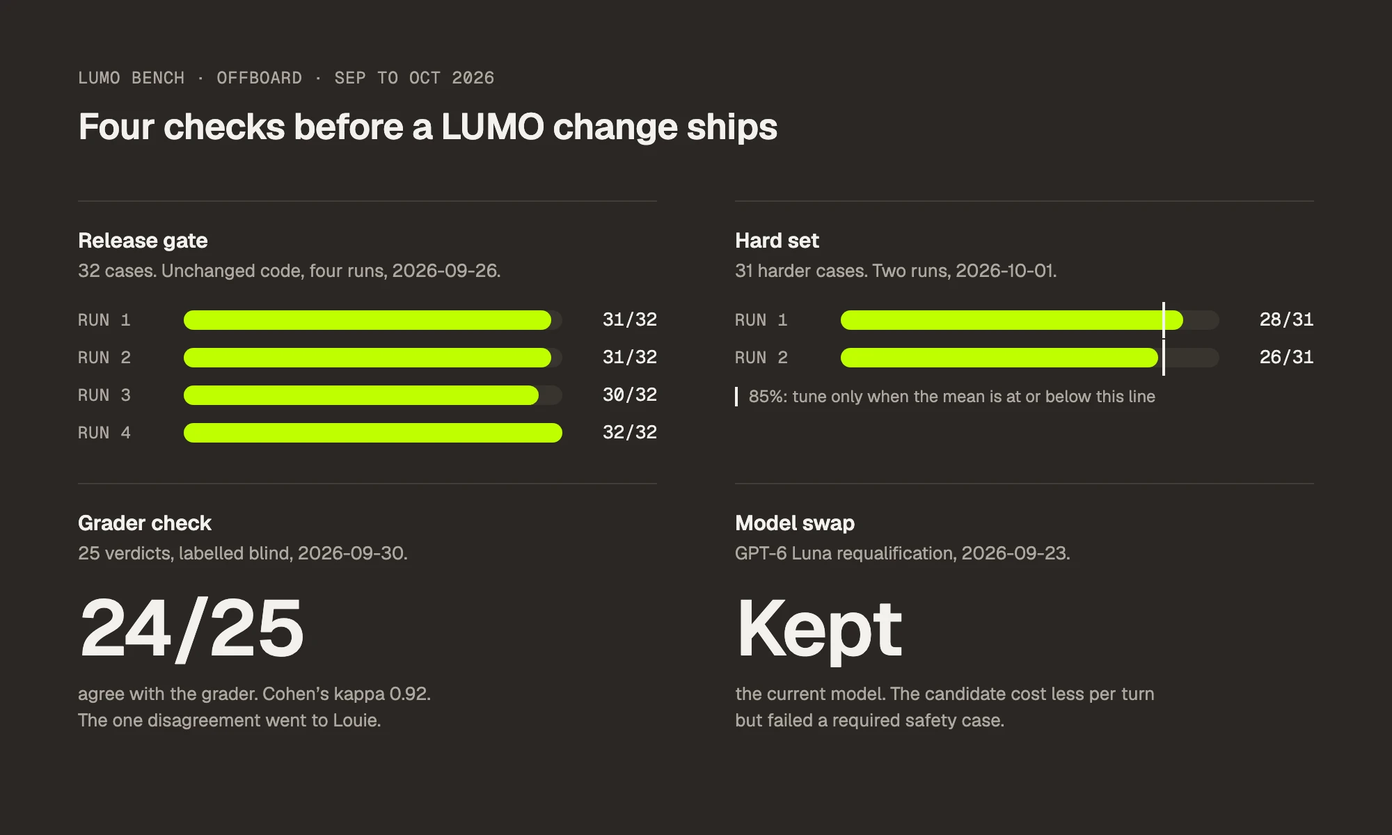
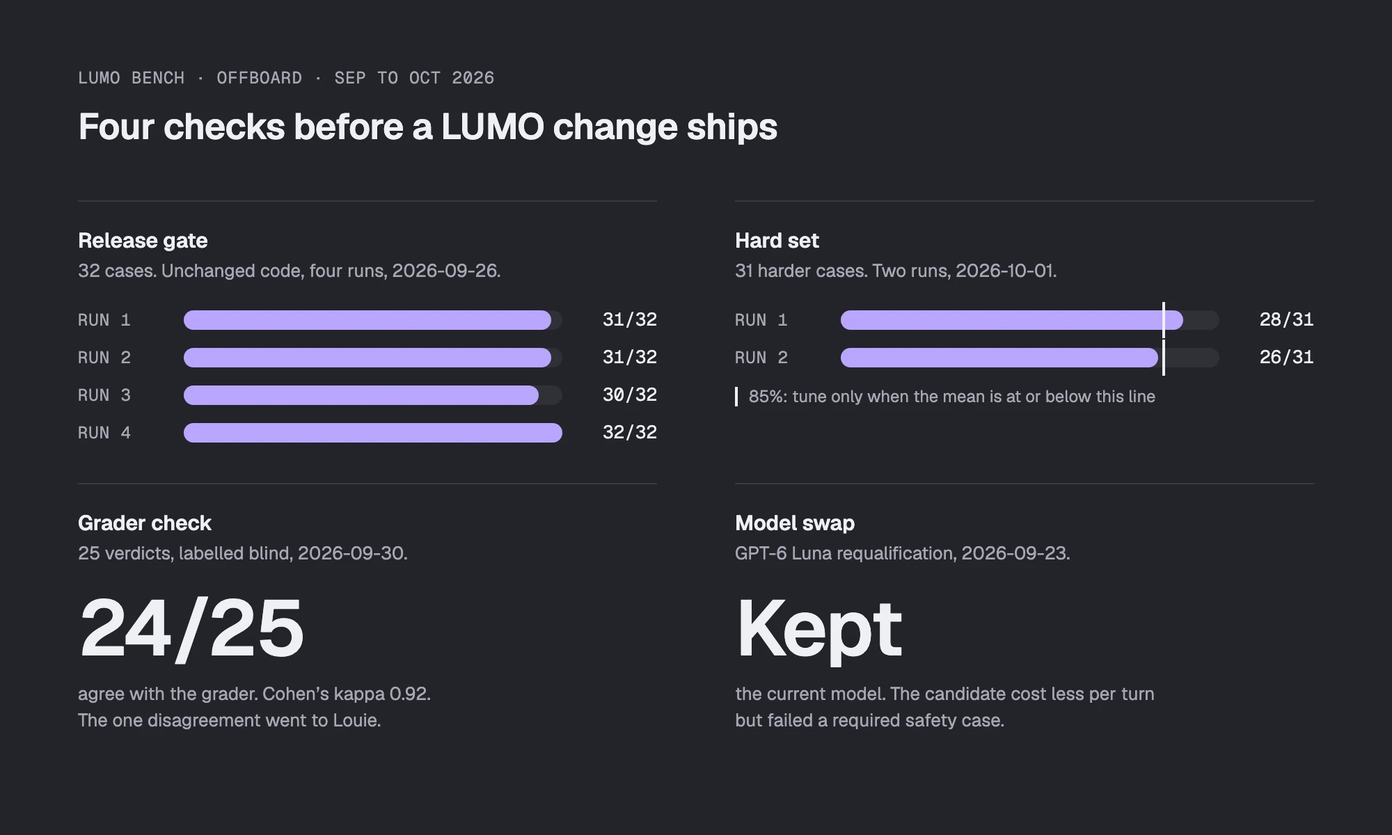
Switch the accent to an indigo and lilac duo on cool greys (#7)
Louie chose the "duo" after comparing accents on the real pages.

- Primary buttons are indigo #5550F2 with light text (5.1:1).
- A new lilac token, accent-line (#BBA8FF), draws the headline underline,
  link and hover underlines, focus rings, text selection, and the chart
  marks in the LUMO graphics.
- Canvas, surfaces, borders, and ink move from warm to cool greys.
- The bench chart, case P1, and the LUMO card image are re-rendered in
  lilac on cool greys. Offboard screenshots keep the app's own lime.
- The social share image, AGENTS.md, and the README follow.

Changed region(s): [[0.124, 0.37, 0.403, 0.555], [0.589, 0.37, 0.868, 0.4625]]

diff --git a/components/portfolio/lumo/bench-graphics.tsx b/components/portfolio/lumo/bench-graphics.tsx
@@ -35,7 +35,7 @@ function Dot({ miss, title, delay, played, reduce }: { miss: boolean; title: str
       initial={reduce ? false : { scale: 0, opacity: 0 }}
       animate={played ? { scale: 1, opacity: 1 } : undefined}
       transition={reduce ? { duration: 0 } : { delay, duration: 0.3, ease }}
-      className={cn("block aspect-square w-full max-w-3 rounded-full", miss ? "border-2 border-danger" : "bg-plate-offboard-mark")}
+      className={cn("block aspect-square w-full max-w-3 rounded-full", miss ? "border-2 border-danger" : "bg-accent-line")}
     />
   );
 }
@@ -43,7 +43,7 @@ function Dot({ miss, title, delay, played, reduce }: { miss: boolean; title: str
 function Legend() {
   return (
     <p aria-hidden="true" className="flex flex-wrap gap-x-5 gap-y-2 font-mono text-system uppercase text-foreground-muted">
-      <span className="flex items-center gap-1.5"><span className="size-2.5 rounded-full bg-plate-offboard-mark" />Pass</span>
+      <span className="flex items-center gap-1.5"><span className="size-2.5 rounded-full bg-accent-line" />Pass</span>
       <span className="flex items-center gap-1.5"><span className="size-2.5 rounded-full border-2 border-danger" />Miss</span>
     </p>
   );
@@ -113,10 +113,10 @@ export function ModelScorecard() {
                     animate={played ? { scaleX: 1 } : undefined}
                     transition={reduce ? { duration: 0 } : { delay: 0.2 + i * 0.15, duration: 0.6, ease }}
                     style={{ width: `${(Math.abs(m.value) / max) * 50}%`, transformOrigin: better ? "right" : "left" }}
-                    className={cn("absolute inset-y-0 rounded-full", better ? "right-1/2 bg-plate-offboard-mark" : "left-1/2 bg-danger")}
+                    className={cn("absolute inset-y-0 rounded-full", better ? "right-1/2 bg-accent-line" : "left-1/2 bg-danger")}
                   />
                 </span>
-                <span className={cn("row-start-1 text-right font-mono text-body-sm tabular-nums sm:col-start-3", better ? "text-plate-offboard-mark" : "text-danger")}>
+                <span className={cn("row-start-1 text-right font-mono text-body-sm tabular-nums sm:col-start-3", better ? "text-accent-line" : "text-danger")}>
                   {m.value > 0 ? "+" : "−"}{Math.abs(m.value)}%
                 </span>
               </li>
@@ -125,7 +125,7 @@ export function ModelScorecard() {
         </ul>
         <motion.div {...enter(3)} className="grid gap-2 rounded-sm border border-border-subtle bg-surface p-4 sm:grid-cols-[1fr_auto_auto] sm:items-center sm:gap-6">
           <span className="text-body-sm text-foreground">Required safety case: no interview lookup after a crisis statement</span>
-          <span className="flex items-center gap-1.5 font-mono text-system uppercase text-foreground"><Check aria-hidden="true" className="size-3.5 text-plate-offboard-mark" />Current model passes</span>
+          <span className="flex items-center gap-1.5 font-mono text-system uppercase text-foreground"><Check aria-hidden="true" className="size-3.5 text-accent-line" />Current model passes</span>
           <span className="flex items-center gap-1.5 font-mono text-system uppercase text-danger"><X aria-hidden="true" className="size-3.5" />GPT-6 Luna fails</span>
         </motion.div>
         <motion.p {...enter(4)} className="w-fit rounded-full bg-foreground px-3.5 py-1.5 font-mono text-system uppercase text-canvas">Verdict: keep the current model</motion.p>
@@ -147,7 +147,7 @@ export function ModelScorecard() {
                     animate={played ? { opacity: 1, scaleX: 1 } : undefined}
                     transition={reduce ? { duration: 0 } : { delay: 0.3 + i * 0.15, duration: 0.6, ease }}
                     style={{ left: `${lo * 100}%`, width: `max(0.75rem, ${(hi - lo) * 100}%)`, transformOrigin: "left" }}
-                    className={cn("absolute inset-y-0 rounded-full", i === 0 ? "bg-plate-offboard-mark" : "bg-foreground/60")}
+                    className={cn("absolute inset-y-0 rounded-full", i === 0 ? "bg-accent-line" : "bg-foreground/60")}
                   />
                 </span>
                 <span className="row-start-1 whitespace-nowrap text-right font-mono text-body-sm tabular-nums text-foreground-muted sm:col-start-3">
@@ -216,13 +216,13 @@ export function HardSetRuns() {
             animate={played ? { width: pct(mean) } : undefined}
             transition={reduce ? { duration: 0 } : { delay: 0.9, duration: 0.9, ease }}
             style={reduce ? { width: pct(mean) } : undefined}
-            className="absolute inset-y-0 left-0 rounded-full bg-plate-offboard-mark"
+            className="absolute inset-y-0 left-0 rounded-full bg-accent-line"
           />
           <span className="absolute -inset-y-1.5 w-0.5 bg-foreground" style={{ left: pct(HARD_TUNING_LINE) }} />
         </span>
         <span className="flex flex-wrap justify-end gap-x-4 gap-y-1 font-mono text-system uppercase text-foreground-muted">
           <span className="flex items-center gap-1.5"><span className="h-3 w-0.5 bg-foreground" />Tune at or below 85%</span>
-          <span className="text-plate-offboard-mark">Mean {Math.round(mean * 100)}%</span>
+          <span className="text-accent-line">Mean {Math.round(mean * 100)}%</span>
         </span>
       </div>
       <Legend />
@@ -252,7 +252,7 @@ export function GraderAgreement() {
                 transition={reduce ? { duration: 0 } : { delay: i * 0.04, duration: 0.35, ease }}
                 className={cn(
                   "flex size-10 items-center justify-center rounded-xs",
-                  odd ? "border-2 border-foreground text-foreground" : hard ? "bg-plate-offboard-mark/80 text-canvas" : "bg-plate-offboard-mark/45 text-canvas",
+                  odd ? "border-2 border-foreground text-foreground" : hard ? "bg-accent-line/80 text-canvas" : "bg-accent-line/45 text-canvas",
                 )}
               >
                 {odd ? <span className="font-mono text-system">H04</span> : <Check className="size-3.5" />}
@@ -261,8 +261,8 @@ export function GraderAgreement() {
           })}
         </ol>
         <p aria-hidden="true" className="flex flex-wrap gap-x-4 gap-y-1 font-mono text-system uppercase text-foreground-muted">
-          <span className="flex items-center gap-1.5"><span className="size-2.5 rounded-xs bg-plate-offboard-mark/80" />Hard set · {GRADER_CHECK.fromHard}</span>
-          <span className="flex items-center gap-1.5"><span className="size-2.5 rounded-xs bg-plate-offboard-mark/45" />Regression · {GRADER_CHECK.fromRegression}</span>
+          <span className="flex items-center gap-1.5"><span className="size-2.5 rounded-xs bg-accent-line/80" />Hard set · {GRADER_CHECK.fromHard}</span>
+          <span className="flex items-center gap-1.5"><span className="size-2.5 rounded-xs bg-accent-line/45" />Regression · {GRADER_CHECK.fromRegression}</span>
         </p>
       </div>
 

diff --git a/app/globals.css b/app/globals.css
@@ -11,16 +11,19 @@
 /* ---------------------------------------------------------------------------
    Design tokens — source of truth.
 
-   Plan 051 (October 2026): a near-black warm canvas, warm off-white ink, and
-   one accent, lime #C6FF00, which always carries dark text. Color still
-   belongs to the work: project plates stay for the case study pages, and the
-   amber signal keeps its one job, the redline on real screenshots.
+   Plan 051 (October 2026), palette revised October 17, 2026 (Louie chose
+   the "indigo + lilac duo"): a cool near-black canvas, cool off-white ink,
+   and two related accents. Color still belongs to the work: project plates
+   stay for the case study pages, and the amber signal keeps its one job,
+   the redline on real screenshots.
 
-   Accent split (unchanged contract): `text-accent` for text and markers
-   resolves to ink, so links keep their underline; `bg-accent-fill` +
-   `text-accent-on-fill` is lime with dark text, for primary actions only.
-   `accent-muted` / `accent-soft` are lime tints for the deep-link wash and
-   AI surfaces.
+   Accent split: `text-accent` for text and markers resolves to ink, so
+   links keep their underline. `bg-accent-fill` + `text-accent-on-fill` is
+   indigo #5550F2 with light text, for primary actions only. `accent-line`
+   is lilac #BBA8FF for lines and highlights: the headline underline, link
+   and hover underlines, focus rings, text selection, and chart marks.
+   `accent-muted` / `accent-soft` / `accent-foreground` are lilac tints for
+   the deep-link wash and AI surfaces.
 
    Colors are HSL triplets consumed as hsl(var(--token)). Radii are spec §9.
    Motion durations are spec §24.
@@ -28,29 +31,30 @@
 :root {
   color-scheme: dark;
 
-  /* Near-black warm canvas, #121211. Frames and panels step up in lightness;
-     borders stay low so spacing, not lines, does the grouping. */
-  --canvas: 60 3% 7%;
-  --surface: 60 4% 9%;
-  --surface-muted: 50 5% 11%;
-  --surface-raised: 45 6% 13%;
-  --foreground: 48 26% 93%;         /* #F1EFE7, 16.5:1 on canvas */
-  --foreground-muted: 45 5% 61%;    /* #A3A097, 7.4:1 on canvas — body copy */
-  --foreground-subtle: 45 4% 40%;   /* non-text only */
-  --foreground-quiet: 45 4% 52%;    /* 4.9:1 — display-size text only */
+  /* Near-black cool canvas, #101113. Frames and panels step up in
+     lightness; borders stay low so spacing, not lines, does the grouping. */
+  --canvas: 235 8% 7%;
+  --surface: 235 8% 9%;
+  --surface-muted: 235 7% 11%;
+  --surface-raised: 235 7% 13%;
+  --foreground: 230 25% 95%;        /* #EFF0F5, 16.6:1 on canvas */
+  --foreground-muted: 235 7% 63%;   /* #9A9BA7, 6.9:1 on canvas — body copy */
+  --foreground-subtle: 235 5% 40%;  /* non-text only */
+  --foreground-quiet: 235 5% 52%;   /* 4.8:1 — display-size text only */
 
-  --border-subtle: 45 5% 16%;
-  --border-default: 50 5% 21%;
-  --border-strong: 48 5% 32%;
+  --border-subtle: 235 7% 16%;
+  --border-default: 235 7% 21%;
+  --border-strong: 235 6% 32%;
 
-  --accent: 48 26% 93%;
-  --accent-hover: 45 5% 75%;
-  --accent-fill: 74 100% 50%;       /* lime #C6FF00 */
-  --accent-fill-hover: 74 100% 62%;
-  --accent-on-fill: 60 3% 7%;       /* 16:1 on lime */
-  --accent-muted: 74 45% 22%;
-  --accent-soft: 74 30% 11%;
-  --accent-foreground: 74 100% 62%; /* 12:1 on accent-soft */
+  --accent: 230 25% 95%;
+  --accent-hover: 235 7% 75%;
+  --accent-fill: 242 86% 63%;       /* indigo #5550F2 */
+  --accent-fill-hover: 242 80% 58%; /* darker on hover, so text stays readable */
+  --accent-on-fill: 230 25% 97%;    /* 5.1:1 on indigo, 6.2:1 on hover */
+  --accent-line: 253 100% 83%;      /* lilac #BBA8FF, 9.1:1 on canvas */
+  --accent-muted: 253 45% 22%;
+  --accent-soft: 253 30% 11%;
+  --accent-foreground: 253 100% 88%; /* 11:1 on accent-soft */
 
   /* The redline. Used only by DecisionMark and the marks it draws. */
   --signal: 41 91% 57%;
@@ -168,6 +172,7 @@
   --color-accent-hover: hsl(var(--accent-hover));
   --color-accent-fill: hsl(var(--accent-fill));
   --color-accent-fill-hover: hsl(var(--accent-fill-hover));
+  --color-accent-line: hsl(var(--accent-line));
   --color-accent-on-fill: hsl(var(--accent-on-fill));
   --color-accent-muted: hsl(var(--accent-muted));
   --color-accent-soft: hsl(var(--accent-soft));
@@ -303,11 +308,16 @@
   --radius-field: var(--radius-field);
 }
 
+/* Selected text takes a lilac tint (October 2026 palette). */
+::selection {
+  background-color: hsl(var(--accent-line) / 0.32);
+}
+
 /* One focus treatment for the whole site, so every interactive element is
    visibly focusable without each component reinventing it (spec §26). */
 @utility focus-ring {
   &:focus-visible {
-    outline: 2px solid hsl(var(--accent-fill));
+    outline: 2px solid hsl(var(--accent-line));
     outline-offset: 2px;
   }
 }
@@ -581,7 +591,7 @@
 
 /* ---------------------------------------------------------------------------
    Homepage headline (Plan 051): "I make complex things / feel simple." with
-   small project screenshots set inside the line, and a lime line drawn
+   small project screenshots set inside the line, and a lilac line drawn
    behind "feel simple."
 
    - Words rise in, a few at a time. The whole entrance is pure CSS and
@@ -694,7 +704,7 @@
   bottom: -0.01em;
   height: 0.13em;
   border-radius: 0.04em;
-  background: hsl(var(--accent-fill));
+  background: hsl(var(--accent-line));
   transform: scaleX(0);
   transform-origin: left center;
   animation: neon-draw 800ms cubic-bezier(0.65, 0, 0.25, 1) 900ms forwards;

diff --git a/content/work/projects.ts b/content/work/projects.ts
@@ -83,7 +83,7 @@ export const workProjects: readonly WorkProject[] = [
     imageAlt: "A recording of one LUMO turn in Offboard's chat page. The member asks: Can they take my severance back? If so, draft an email asking them to narrow that. A Lumo is working panel ticks through its steps: classifying the question, reviewing the profile, loading the document analysis, drafting the ask email. The reply streams in with a Used profile and documents badge. It quotes the agreement word for word: If Employee breaches Sections 7, 8, or 9, Employee must repay the full severance amount. Then it drafts an email asking the company to narrow or remove that clause, and ends: Nothing was sent. You can edit the draft before sending.",
     imageCaption: "One LUMO turn, recorded live. LUMO reads the member’s reviewed agreement, quotes the clause word for word, and drafts an email asking to narrow it. Nothing is sent. A synthetic test agreement, October 2026. Product recording.",
     imageWidth: 1536, imageHeight: 864,
-    tileImage: { src: "/work/lumo/card.webp", alt: "Three pieces of one LUMO turn, cut from a real screenshot. Top: the member asks, Can they take my severance back? If so, draft an email asking them to narrow that. Left: the How Lumo worked steps. Right: LUMO's reply, marked Used profile and documents. A lime line links the step Loading document analysis to the reply's quote of the agreement: If Employee breaches Sections 7, 8, or 9, Employee must repay the full severance amount. A second line links Drafting your ask email to the drafted email's subject line.", width: 2400, height: 1800 },
+    tileImage: { src: "/work/lumo/card.webp", alt: "Three pieces of one LUMO turn, cut from a real screenshot. Top: the member asks, Can they take my severance back? If so, draft an email asking them to narrow that. Left: the How Lumo worked steps. Right: LUMO's reply, marked Used profile and documents. A lilac line links the step Loading document analysis to the reply's quote of the agreement: If Employee breaches Sections 7, 8, or 9, Employee must repay the full severance amount. A second line links Drafting your ask email to the drafted email's subject line.", width: 2400, height: 1800 },
     role: "Founding Product Designer & AI Systems Lead",
     scope: "Product direction, conversation and tool design, evaluation, and full-stack implementation",
     status: "Live in Offboard",

diff --git a/components/portfolio/lumo/tool-gate.tsx b/components/portfolio/lumo/tool-gate.tsx
@@ -65,7 +65,7 @@ function Tool({ name, state }: { name: string; state: "offered" | "called" | "bl
     <li
       className={cn(
         "rounded-xs border px-2 py-1 font-mono text-system transition-[opacity,background-color,border-color] duration-(--duration-standard)",
-        state === "called" && "border-plate-offboard-mark bg-plate-offboard-mark text-canvas",
+        state === "called" && "border-accent-line bg-accent-line text-canvas",
         state === "offered" && "border-border-default text-foreground",
         state === "blocked" && "border-border-subtle text-foreground-subtle line-through opacity-50",
       )}
@@ -127,7 +127,7 @@ export function ToolGate() {
                 <div className="rounded-sm border border-border-default bg-surface-muted p-4">
                   {confirmed ? (
                     <p className="flex items-center gap-2 text-body-sm font-semibold text-foreground">
-                      <Check aria-hidden="true" className="size-4 text-plate-offboard-mark" />
+                      <Check aria-hidden="true" className="size-4 text-accent-line" />
                       Added. The tracker changed only now.
                     </p>
                   ) : (
@@ -135,7 +135,7 @@ export function ToolGate() {
                       <p className="text-body-sm font-semibold text-foreground">Add to tracker?</p>
                       <p className="mt-1 text-body-sm text-foreground-muted">The role from the link, as a pending card.</p>
                       <span className="mt-3 flex gap-2">
-                        <button type="button" onClick={() => setConfirmed(true)} className="focus-ring rounded-full bg-plate-offboard-mark px-3.5 py-1.5 text-body-sm font-semibold text-canvas">Confirm</button>
+                        <button type="button" onClick={() => setConfirmed(true)} className="focus-ring rounded-full bg-accent-line px-3.5 py-1.5 text-body-sm font-semibold text-canvas">Confirm</button>
                         <span aria-hidden="true" className="rounded-full border border-border-default px-3.5 py-1.5 text-body-sm text-foreground-muted">Not now</span>
                       </span>
                     </>

diff --git a/components/app-shell/site-header.tsx b/components/app-shell/site-header.tsx
@@ -15,9 +15,8 @@ import { profile } from "@/content/profile";
  * "Primary"; only one is ever displayed, so assistive tech sees one.
  *
  * Plan 051: the name alone (the hero says the role) as a two-voice
- * wordmark, mono pill navigation, and "Let's talk" as the one lime control:
- * it is the action we want recruiters to take. Ask Louie sits beside it,
- * outlined.
+ * wordmark, mono pill navigation, then "Let's talk" (contact) and Ask
+ * Louie, both outlined.
  *
  * Its inner frame matches `.portfolio-wide`, so the name lines up with the
  * homepage content edge. The availability link was removed on 2026-09-29
@@ -31,7 +30,7 @@ function SiteHeader() {
       <div className="portfolio-wide flex h-16 items-center gap-6">
         <Link href="/" className="group focus-ring mr-auto flex items-center gap-3 rounded-xs" aria-label={`${profile.name}, home`}>
           {profile.avatar ? (
-            <Image src={profile.avatar} alt="" width={36} height={36} loading="eager" className="size-9 rounded-full object-cover ring-1 ring-foreground/10 transition-[rotate,box-shadow] duration-(--duration-deliberate) group-hover:-rotate-8 group-hover:ring-2 group-hover:ring-accent-fill motion-reduce:transition-none" />
+            <Image src={profile.avatar} alt="" width={36} height={36} loading="eager" className="size-9 rounded-full object-cover ring-1 ring-foreground/10 transition-[rotate,box-shadow] duration-(--duration-deliberate) group-hover:-rotate-8 group-hover:ring-2 group-hover:ring-accent-line motion-reduce:transition-none" />
           ) : null}
           {/* Plan 051 wordmark: Geist for the first name, Instrument Serif
               italic for the surname, the site's two voices in one name. */}

diff --git a/components/portfolio/lumo/money-switch.tsx b/components/portfolio/lumo/money-switch.tsx
@@ -33,7 +33,7 @@ export function MoneySwitch() {
         onClick={() => setOn((value) => !value)}
         className="focus-ring flex w-fit items-center gap-3 rounded-full border border-border-default py-1.5 pl-1.5 pr-4 text-body-sm text-foreground"
       >
-        <span className={cn("flex h-6 w-11 items-center rounded-full p-0.5 transition-colors duration-(--duration-standard)", on ? "justify-end bg-plate-offboard-mark" : "justify-start bg-border-default")}>
+        <span className={cn("flex h-6 w-11 items-center rounded-full p-0.5 transition-colors duration-(--duration-standard)", on ? "justify-end bg-accent-line" : "justify-start bg-border-default")}>
           <motion.span layout={!reduce} transition={{ type: "spring", stiffness: 500, damping: 32 }} className="size-5 rounded-full bg-canvas" />
         </span>
         Let LUMO use my money details
@@ -45,7 +45,7 @@ export function MoneySwitch() {
           return (
             <li key={fact.label} className="flex items-center justify-between gap-4 px-4 py-3">
               <span className={cn("text-body-sm transition-[color,opacity] duration-(--duration-standard)", read ? "text-foreground" : "text-foreground-muted line-through opacity-60")}>{fact.label}</span>
-              <span className={cn("shrink-0 font-mono text-system uppercase", read ? "text-plate-offboard-mark" : "text-foreground-muted")}>{read ? "LUMO reads" : "Hidden"}</span>
+              <span className={cn("shrink-0 font-mono text-system uppercase", read ? "text-accent-line" : "text-foreground-muted")}>{read ? "LUMO reads" : "Hidden"}</span>
             </li>
           );
         })}

diff --git a/components/portfolio/lumo/turn-compare.tsx b/components/portfolio/lumo/turn-compare.tsx
@@ -63,11 +63,11 @@ export function TurnCompare() {
         <motion.p {...enter(3)} className="text-body-sm text-foreground-muted">The cover letter is never written. Members confirmed none of these cards.</motion.p>
       </section>
 
-      <section aria-label="After" className="flex flex-col gap-3 rounded-lg border border-plate-offboard-mark/40 bg-surface p-5">
-        <p className="font-mono text-system uppercase text-plate-offboard-mark">After · LUMO answers</p>
+      <section aria-label="After" className="flex flex-col gap-3 rounded-lg border border-accent-line/40 bg-surface p-5">
+        <p className="font-mono text-system uppercase text-accent-line">After · LUMO answers</p>
         <motion.div {...enter(0.5)}><Bubble /></motion.div>
         <motion.p {...enter(1.5)} className="flex items-center gap-2 font-mono text-system uppercase text-foreground-muted">
-          <span aria-hidden="true" className="size-1.5 rounded-full bg-plate-offboard-mark" />
+          <span aria-hidden="true" className="size-1.5 rounded-full bg-accent-line" />
           Writing help · write tools not offered
         </motion.p>
         <motion.div {...enter(2.5)} className="flex items-start gap-2.5">

diff --git a/components/portfolio/work-card.tsx b/components/portfolio/work-card.tsx
@@ -11,12 +11,12 @@ import { cn } from "@/lib/utils";
  * rest. Color belongs to the case study pages, where there is room for it.
  *
  * The whole card is one link (the title's `::after` covers it). Hover lifts
- * the screenshot and underlines the title in lime.
+ * the screenshot and underlines the title in lilac.
  */
 type CardImage = { src: string; alt: string; width: number; height: number };
 
 const titleLink =
-  "focus-ring rounded-xs underline decoration-transparent decoration-2 underline-offset-[6px] transition-[text-decoration-color] duration-(--duration-fast) group-hover:decoration-accent-fill after:absolute after:inset-0 after:content-['']";
+  "focus-ring rounded-xs underline decoration-transparent decoration-2 underline-offset-[6px] transition-[text-decoration-color] duration-(--duration-fast) group-hover:decoration-accent-line after:absolute after:inset-0 after:content-['']";
 
 const shot =
   "h-auto w-full rounded-xs shadow-shot ring-1 ring-foreground/10 transition-transform duration-(--duration-deliberate) group-hover:-translate-y-1.5 motion-reduce:transition-none";

diff --git a/app/page.tsx b/app/page.tsx
@@ -49,7 +49,7 @@ export default function Home() {
       <p className="font-mono text-system uppercase text-foreground-muted">{profile.name} · {profile.role}</p>
       <HeroHeadline className="mt-6 max-w-[15em]" />
       <p className="mt-8 max-w-[46ch] text-body-lg text-pretty text-foreground-muted sm:text-lead">{profile.positioning.supporting}</p>
-      <Link href="#work" className="focus-ring mt-6 inline-flex min-h-11 items-center gap-1.5 rounded-xs text-body font-medium text-foreground underline decoration-accent-fill decoration-2 underline-offset-[6px]">
+      <Link href="#work" className="focus-ring mt-6 inline-flex min-h-11 items-center gap-1.5 rounded-xs text-body font-medium text-foreground underline decoration-accent-line decoration-2 underline-offset-[6px]">
         Explore my work<ArrowDown aria-hidden="true" className="size-4" />
       </Link>
     </section>

diff --git a/app/opengraph-image.tsx b/app/opengraph-image.tsx
@@ -26,8 +26,8 @@ export default function OpenGraphImage() {
           flexDirection: "column",
           justifyContent: "space-between",
           padding: 72,
-          background: "#121211",
-          color: "#f1efe7",
+          background: "#101113",
+          color: "#eff0f5",
           fontFamily: "sans-serif",
         }}
       >
@@ -38,7 +38,7 @@ export default function OpenGraphImage() {
           {profile.positioning.primary}
         </div>
         <div style={{ display: "flex", alignItems: "center", gap: 20, fontSize: 30 }}>
-          <div style={{ width: 14, height: 14, borderRadius: 999, background: "#c6ff00" }} />
+          <div style={{ width: 14, height: 14, borderRadius: 999, background: "#bba8ff" }} />
           <span>{profile.name}</span>
           <span style={{ color: "#a8a29e" }}>· {profile.role}</span>
         </div>

diff --git a/components/ai/ask-louie-dialog.tsx b/components/ai/ask-louie-dialog.tsx
@@ -282,7 +282,7 @@ function PanelResizer() {
       onKeyDown={onKeyDown}
       className="group absolute inset-y-0 left-0 z-10 hidden w-3 -translate-x-1/2 cursor-col-resize touch-none outline-none lg:block"
     >
-      <span aria-hidden="true" className="absolute inset-y-0 left-1/2 w-0.5 -translate-x-1/2 bg-transparent transition-colors duration-(--duration-fast) group-hover:bg-accent-fill group-focus-visible:bg-accent-fill" />
+      <span aria-hidden="true" className="absolute inset-y-0 left-1/2 w-0.5 -translate-x-1/2 bg-transparent transition-colors duration-(--duration-fast) group-hover:bg-accent-line group-focus-visible:bg-accent-line" />
     </div>
   );
 }

diff --git a/components/portfolio/lumo/panel-demo.tsx b/components/portfolio/lumo/panel-demo.tsx
@@ -45,7 +45,7 @@ function LumoBody({ onClose }: { onClose: () => void }) {
           <X aria-hidden="true" className="size-4" />
         </button>
       </div>
-      <p className="rounded-xs bg-plate-offboard-mark/15 px-2 py-1 text-system font-medium text-plate-offboard-mark">{LOOKING_AT}</p>
+      <p className="rounded-xs bg-accent-line/15 px-2 py-1 text-system font-medium text-accent-line">{LOOKING_AT}</p>
       <span aria-hidden="true" className="flex flex-col gap-2">
         <span className="h-7 rounded-full border border-border-subtle" />
         <span className="h-7 w-10/12 rounded-full border border-border-subtle" />
